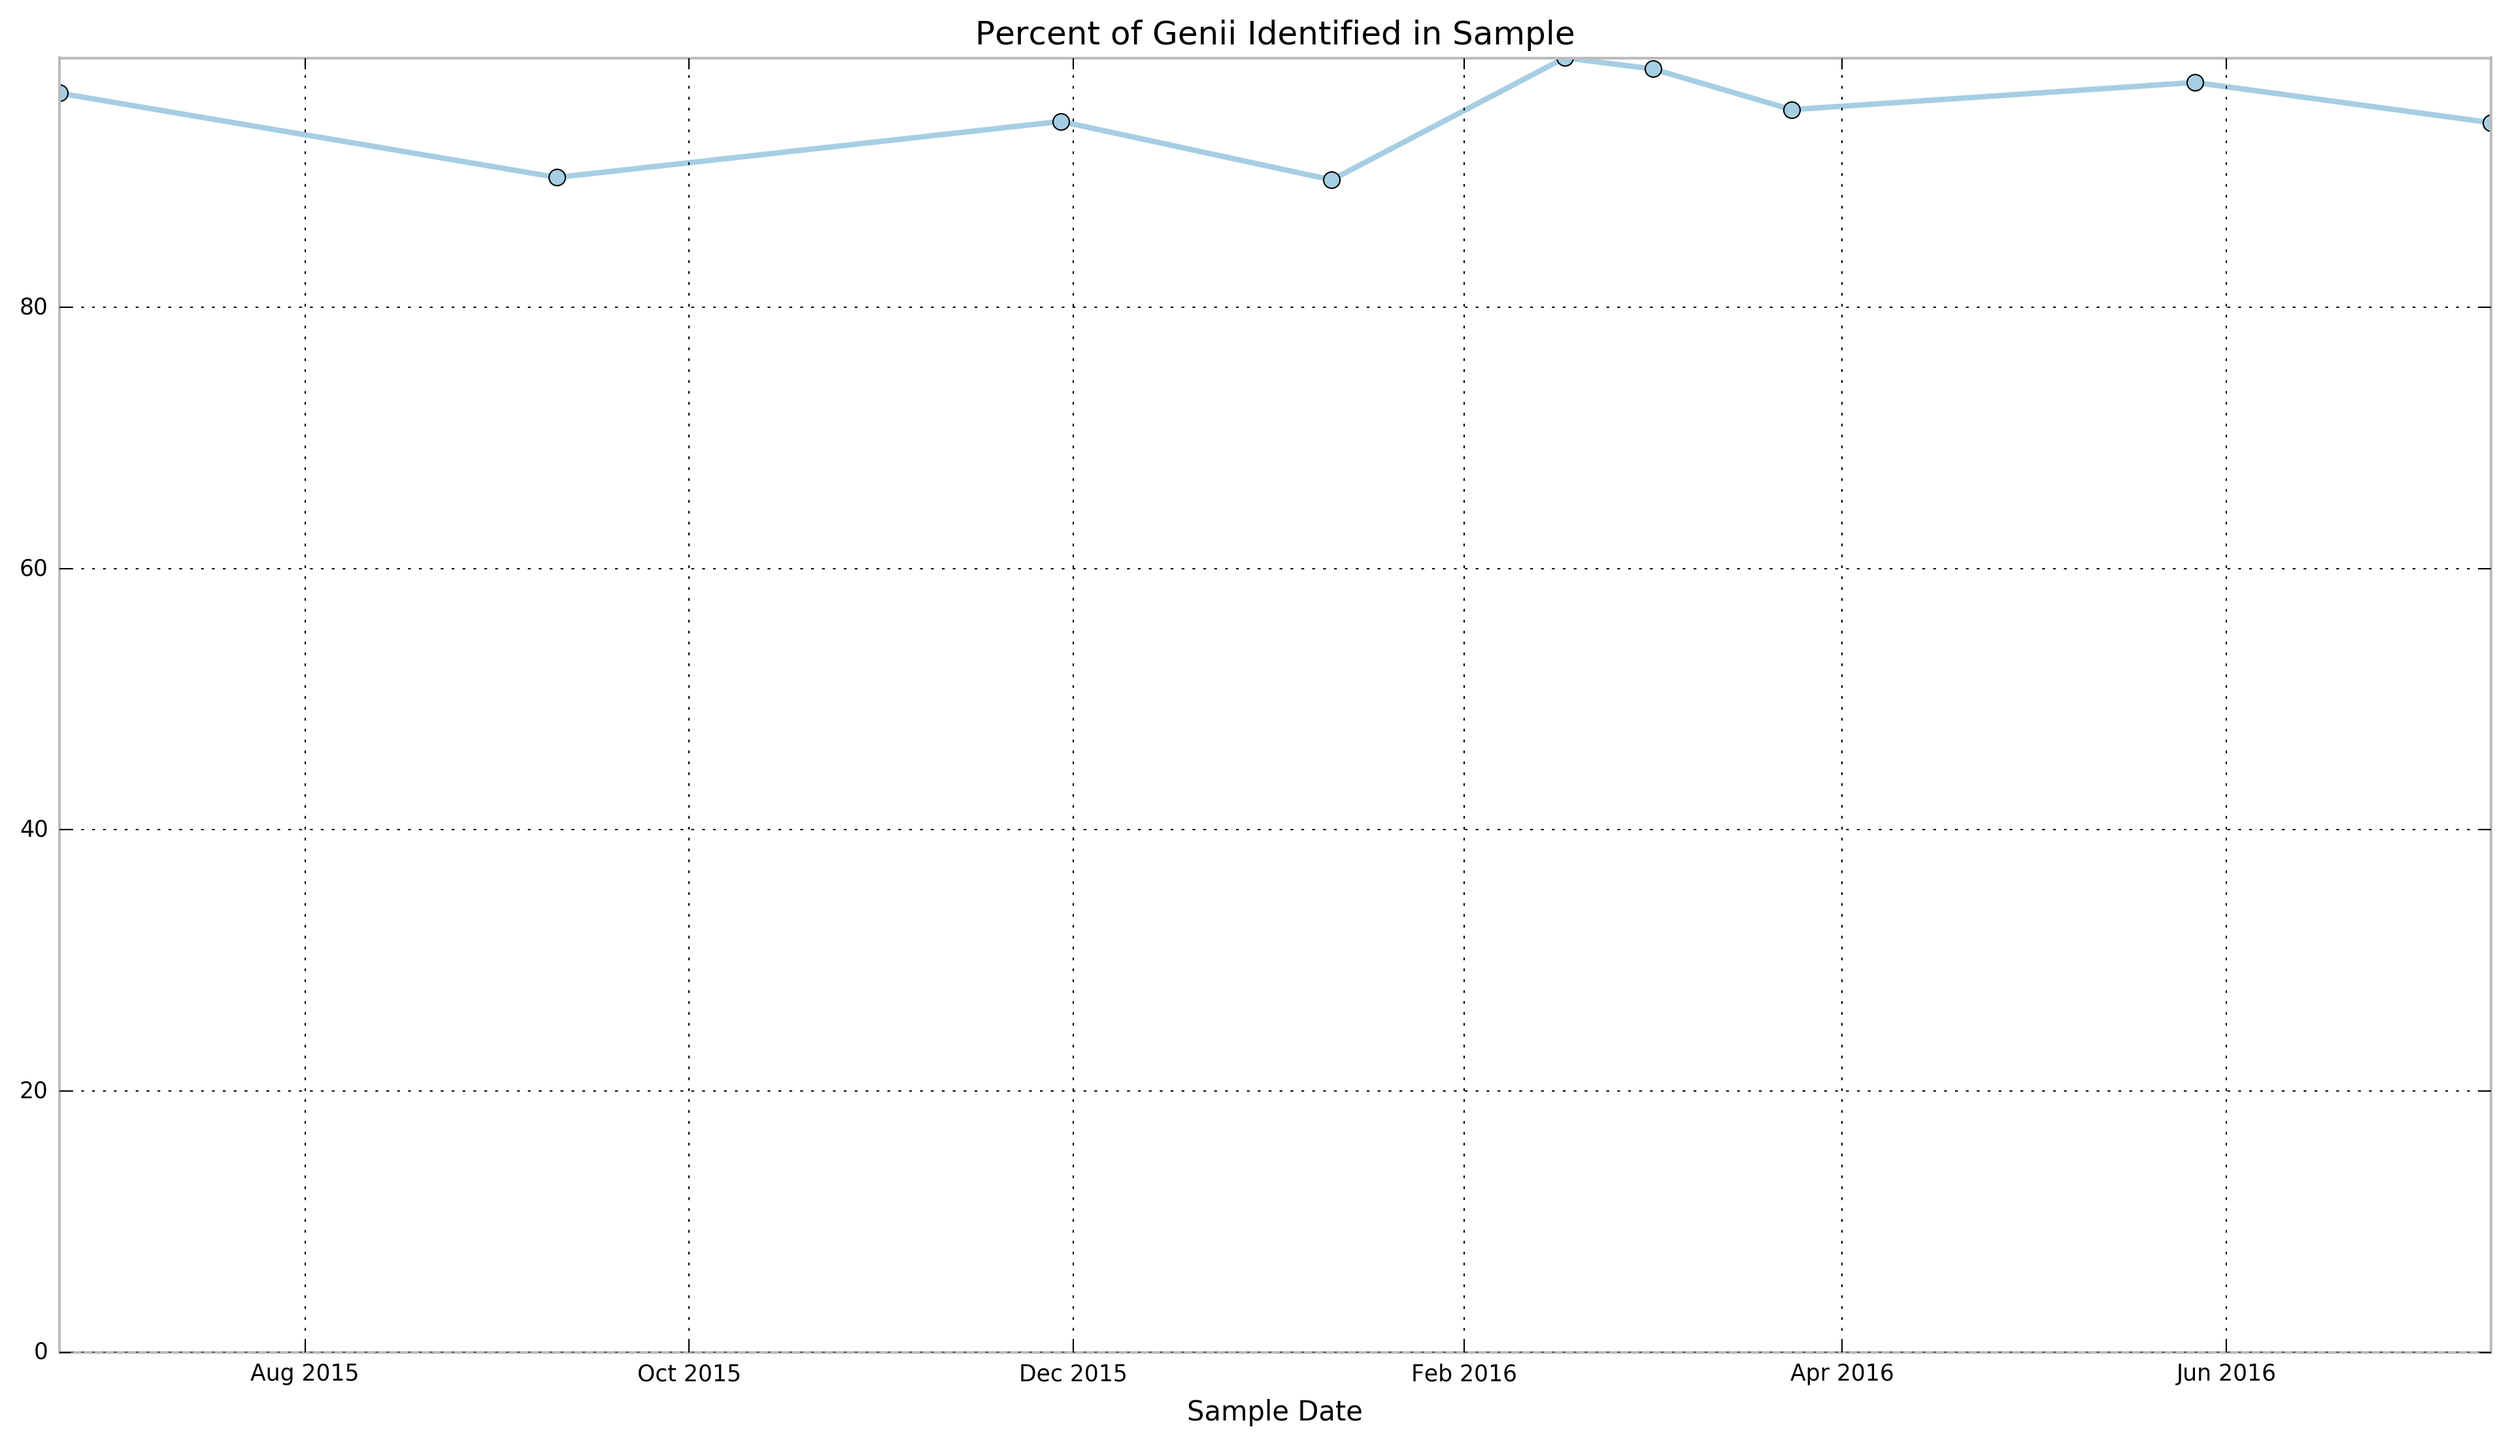
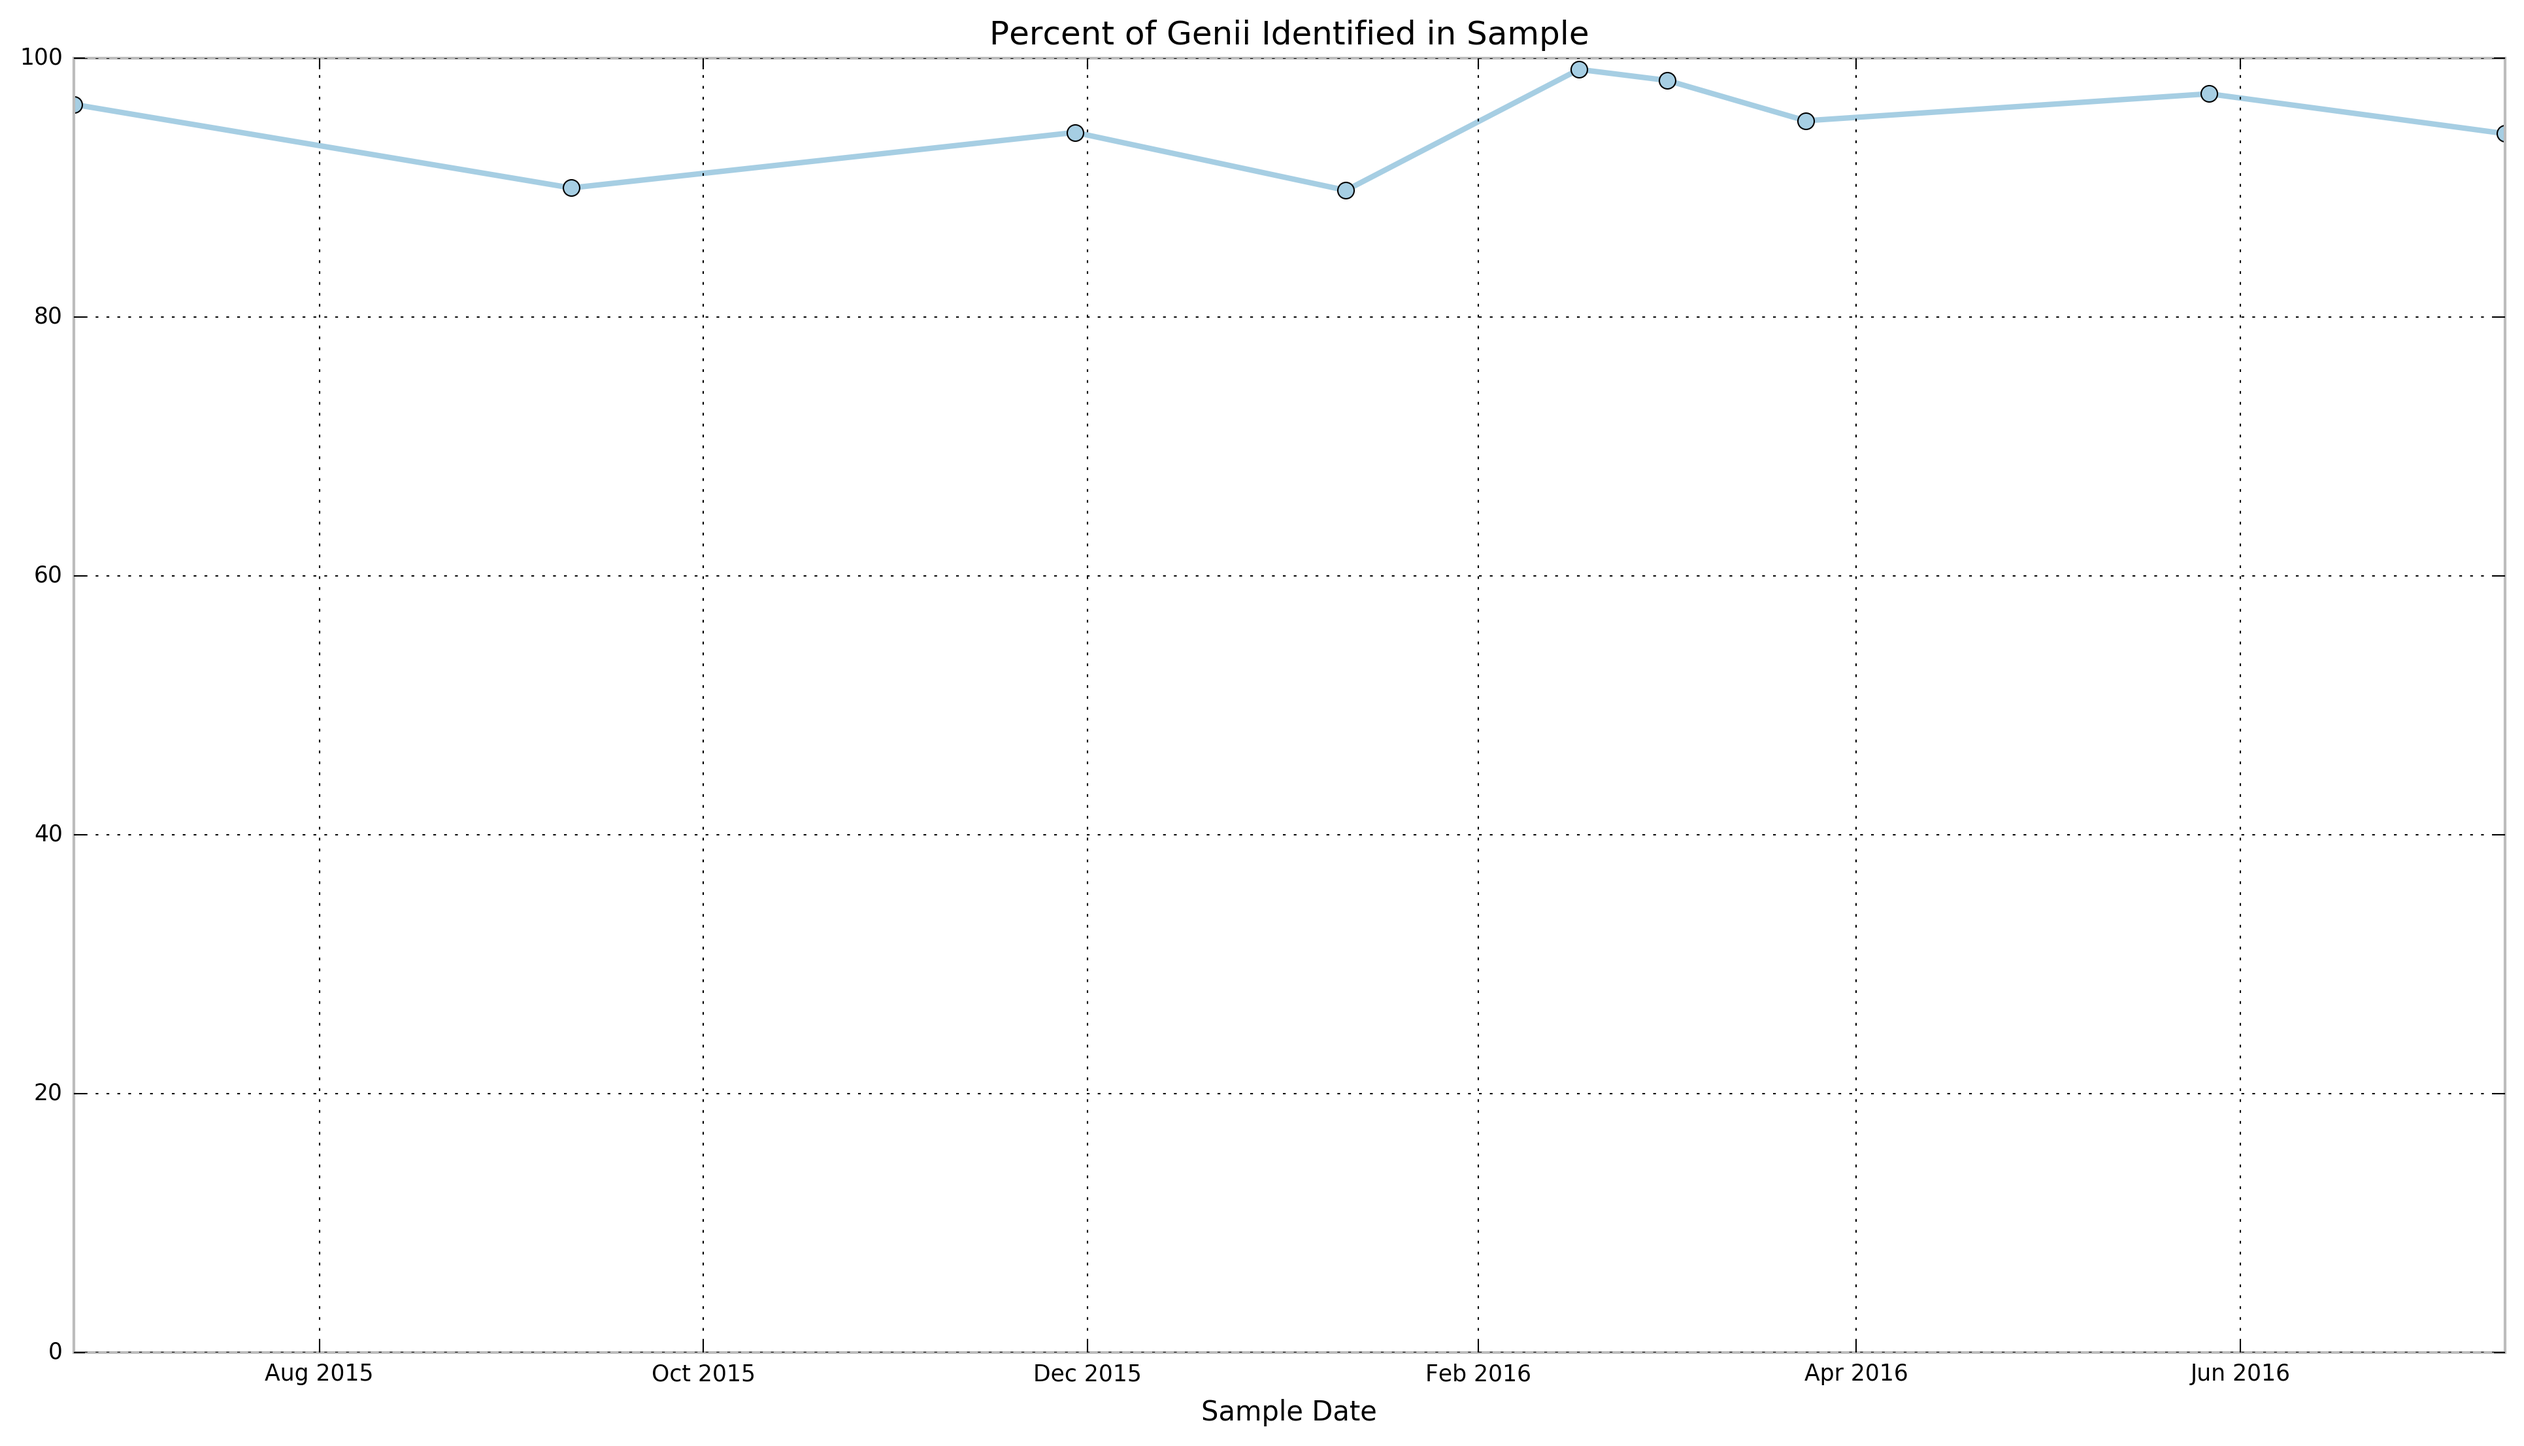
updated plots

diff --git a/code/main.py b/code/main.py
@@ -214,12 +214,12 @@ def stackplotTest():
     plt.close()
     
     plt.clf() 
-    plt.matshow(r, aspect='auto', cmap=matplotlib.cm.get_cmap('viridis', 9), norm=matplotlib.colors.LogNorm(vmin=0.1, vmax=100)); plt.colorbar()
+    plt.matshow(r, aspect='auto', cmap=matplotlib.cm.get_cmap('cubehelix_r', 9), norm=matplotlib.colors.LogNorm(vmin=0.1, vmax=100)); plt.colorbar()
     plt.yticks(np.arange(r.shape[0]), genii, size='xx-small')
     plt.xlabel('Sample Number'); plt.grid(False)
     plt.title('Genus Heatmap [Percent]')
-    plt.savefig(os.path.join(baseDir, 'genus heatmap - viridis.png'))
-    plt.close()    
+    plt.savefig(os.path.join(baseDir, 'genus heatmap - alt colormap.png'))
+    plt.close()
     
     plt.clf()
     almPlot = r - np.median(r, axis=1).reshape(r.shape[0],1)
@@ -236,7 +236,7 @@ def stackplotTest():
     plt.plot(rr, np.sum(r,axis=0))
     plt.title('Percent of Genii Identified in Sample')
     plt.xlabel('Sample Date')
-    plt.ylim([0, np.sum(r,axis=0).max()])
+    plt.ylim([0, 100])
     plt.savefig(os.path.join(baseDir, 'percent of genii identified.png'))      
                 
 
@@ -449,7 +449,7 @@ def stackplotTest():
     plt.plot(rr, np.sum(r,axis=0))
     plt.title('Percent of Species Identified in Sample')
     plt.xlabel('Sample Date')
-    plt.ylim([0, np.sum(r,axis=0).max()])
+    plt.ylim([0, 100])
     plt.savefig(os.path.join(baseDir, 'percent of species identified.png'))
     
     return
